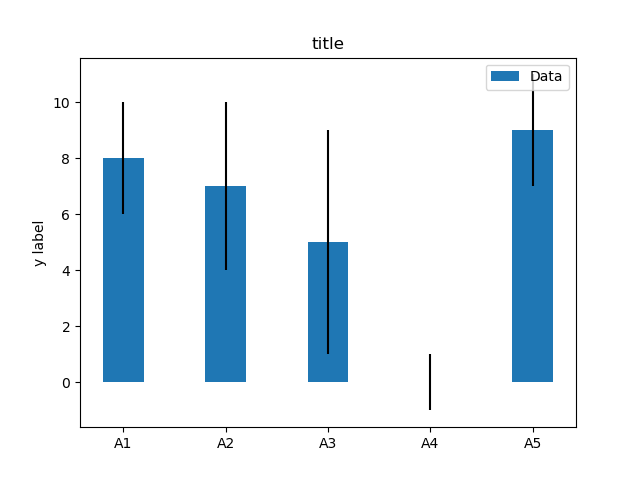
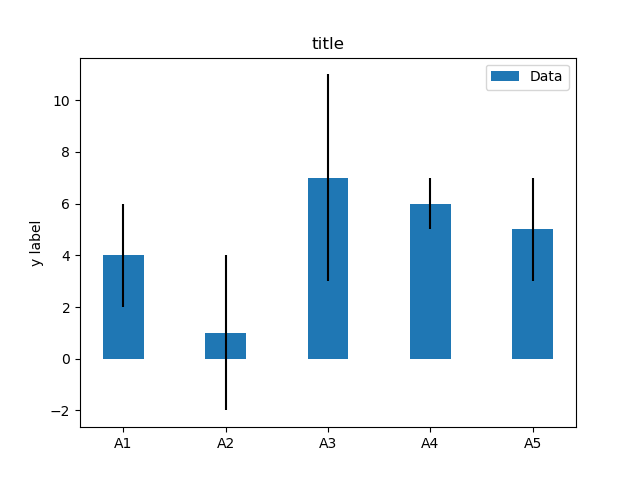
first commit

diff --git a/example.py b/example.py
@@ -2,7 +2,7 @@ import numpy as np
 import matplotlib.pyplot as plt
 
 labels = ['A1', 'A2', 'A3', 'A4', 'A5']
-m_means = [8,7,5,0,9]
+m_means = [4,1,7,6,5]
 m_std = [2, 3, 4, 1, 2]
 width = 0.40       # the width of the bars
 

diff --git a/README.md b/README.md
@@ -1,4 +1,4 @@
-# Matplotlib no 12 
+# Matplotlib no 13 
 
 python example
 
